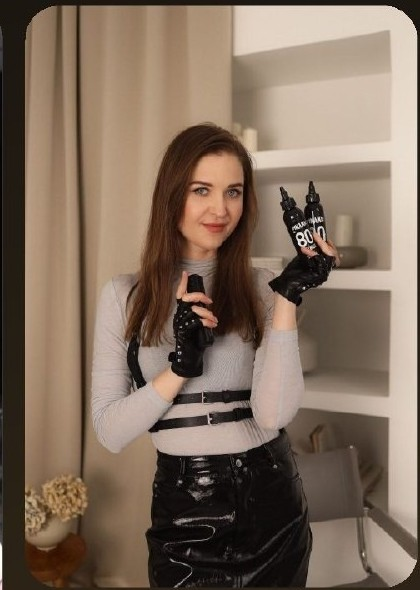
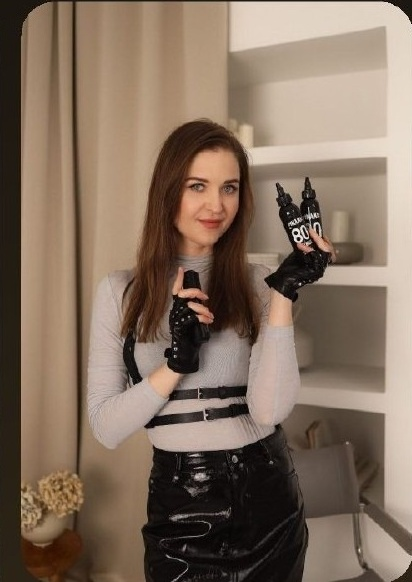
Rework hero photo grid, fix cert animation physics and gradient seams
- Replace hero main photo with higher-res original showing tattoo machine
- Fix hero photo crops (remove added grey bars, restore full-photo aspect ratio)
- Fix object-position on teaching photo to show scene middle, not just top
- Trim dark corners on portrait/teaching photos, add hero divider border
- Rewrite certificate tilt/shatter animation with real spring physics
  (stiffness/damping/mass) and correct ring size, ported from reference bundle
- Fix double-rAF issue causing shatter particles to be invisible
- Remove black border around certificate via tighter image crop
- Fix gradient seam between final slide and CTA buttons (160deg -> 180deg)
- Add tablet-aware responsive breakpoint for touch devices
- Add Meta Pixel, lead-tracking triggers, and discount banner checkout link

Claude-Session: https://claude.ai/code/session_01CnfRud7UFKfhrBcKWTmy69

diff --git a/docs/index.html b/docs/index.html
@@ -158,8 +158,8 @@ src="https://www.facebook.com/tr?id=2292163738269124&ev=PageView&noscript=1"
      mechanism changed, from position:absolute percentages to grid. */
   .s2-wrap{
     background:
-      radial-gradient(circle at 15% 20%, rgba(255,0,3,0.42) 0%, transparent 55%),
-      linear-gradient(105deg,#5c1811 0%,#1a110d 60%);
+      radial-gradient(circle at 15% 20%, rgba(255,0,3,0.4) 0%, rgba(255,0,3,0.24) 22%, rgba(180,60,30,0.12) 42%, rgba(120,50,30,0.05) 60%, transparent 78%),
+      linear-gradient(105deg,#5c1811 0%,#3d1913 30%,#241410 55%,#1a110d 80%,#1a110d 100%);
   }
   /* Title/subtitle rebuilt as real HTML using the exact same font
      treatment as slide 1's hero h1 (Roboto Flex, uppercase, same
@@ -300,7 +300,7 @@ src="https://www.facebook.com/tr?id=2292163738269124&ev=PageView&noscript=1"
   .s23-bg-gradient{
     background:
       radial-gradient(circle at top right, rgba(253,144,77,0.38) 0%, rgba(201,162,74,0.2) 18%, transparent 38%),
-      linear-gradient(160deg, rgba(90,62,38,0.9) 0%, rgba(24,19,16,1) 78%, rgba(24,19,16,1) 100%);
+      linear-gradient(180deg, rgba(90,62,38,0.9) 0%, rgba(24,19,16,1) 60%, rgba(24,19,16,1) 100%);
   }
   .ov-s23-bg-tint{
     position:absolute; inset:0; z-index:0; pointer-events:none;
@@ -360,8 +360,8 @@ src="https://www.facebook.com/tr?id=2292163738269124&ev=PageView&noscript=1"
   }
   .ov-s23-cert-ring{
     position:absolute; left:50%; top:50%; pointer-events:none; border-radius:50%;
-    border:1px solid rgba(230,33,21,0.6); transform:translate(-50%,-50%);
-    width:0; height:0; opacity:1; transition:width 0.5s ease-out,height 0.5s ease-out,opacity 0.5s ease-out;
+    border:2px solid #e62115; box-shadow:0 0 30px #e62115; transform:translate(-50%,-50%);
+    width:0; height:0; opacity:1; transition:width 0.6s ease-out,height 0.6s ease-out,opacity 0.6s ease-out;
   }
 
   .ov-s22-right{ left:51.5%; top:70.4%; height:29.6%; width:44%; color:#cabfae; display:flex; flex-direction:column; justify-content:center; }
@@ -677,6 +677,11 @@ src="https://www.facebook.com/tr?id=2292163738269124&ev=PageView&noscript=1"
       transition:transform 0.8s cubic-bezier(.25,.46,.45,.94), opacity 0.8s cubic-bezier(.25,.46,.45,.94);
       transform:translate(-50%,-50%); opacity:1;
     }
+    .s23-mob-cert-ring{
+      position:absolute; left:50%; top:50%; pointer-events:none; border-radius:50%;
+      border:2px solid #e62115; box-shadow:0 0 8vw #e62115; transform:translate(-50%,-50%);
+      width:0; height:0; opacity:1; transition:width 0.6s ease-out,height 0.6s ease-out,opacity 0.6s ease-out;
+    }
     .s23-mob-cta-h{
       font-family:var(--font-rise); font-weight:700; text-transform:uppercase;
       letter-spacing:-0.045em; font-variation-settings:"wdth" 116,"opsz" 36;
@@ -942,11 +947,11 @@ src="https://www.facebook.com/tr?id=2292163738269124&ev=PageView&noscript=1"
     --font-rise:'Roboto Flex','Arial Narrow',Arial,sans-serif;
     --font-body-2:'Geologica',system-ui,sans-serif;
   }
-  .hero{ position:relative; background:linear-gradient(180deg, #0e0a08 0%, #1c140f 100%); overflow:hidden; }
+  .hero{ position:relative; background:linear-gradient(180deg, #0e0a08 0%, #1c140f 100%); overflow:hidden; border-bottom:3px solid #15110e; }
   .hero-glow{
     position:absolute; left:50%; top:55%; width:1150px; height:1150px;
     transform:translate(-50%,-50%);
-    background:radial-gradient(circle, rgba(255,0,3,0.55) 0%, rgba(255,0,3,0.38) 32%, rgba(201,162,74,0.14) 58%, transparent 75%);
+    background:radial-gradient(circle, rgba(255,0,3,0.5) 0%, rgba(255,0,3,0.4) 22%, rgba(235,80,20,0.28) 40%, rgba(201,162,74,0.16) 58%, rgba(150,100,50,0.07) 74%, transparent 92%);
     filter:blur(10px); pointer-events:none; z-index:0;
   }
   .hero-container{ position:relative; z-index:1; width:min(1180px, 100% - 48px); margin-inline:auto; }
@@ -959,7 +964,7 @@ src="https://www.facebook.com/tr?id=2292163738269124&ev=PageView&noscript=1"
     .hero-logo{ gap:10px; font-size:1.05rem; }
     .hero-logo img{ width:46px; height:46px; }
   }
-  .hero-grid{ display:grid; grid-template-columns:1.15fr 1fr; align-items:center; gap:clamp(2rem, 4vw, 4rem); padding:18px 0 48px; }
+  .hero-grid{ display:grid; grid-template-columns:1.15fr 1fr; align-items:center; gap:clamp(0.5rem, 1.2vw, 1.25rem); padding:18px 0 48px; }
   .hero h1{
     margin:0 0 clamp(1.25rem, 2.5vw, 1.75rem);
     font-family:var(--font-rise); font-size:clamp(3rem, 4.5vw, 4rem);
@@ -981,9 +986,17 @@ src="https://www.facebook.com/tr?id=2292163738269124&ev=PageView&noscript=1"
   .hero-stat span{ font-size:clamp(0.9rem, 1.3vw, 1.15rem); }
   .hero-byline{ display:flex; align-items:center; gap:1rem; font-family:'Playfair Display',serif; font-style:italic; font-weight:400; color:rgba(250,246,239,0.82); font-size:clamp(0.85rem, 1vw, 1rem); }
   .hero-byline .rule{ width:clamp(2rem,3vw,3rem); height:1px; background:#a9803a; flex-shrink:0; }
-  .hero-photos{ position:relative; z-index:1; display:grid; grid-template-columns:1fr 1fr; grid-template-rows:1fr 1fr; gap:clamp(0.6rem, 1.2vw, 1rem); height:clamp(20rem, 34vw, 32rem); overflow:hidden; }
-  .hero-photos img{ width:100%; height:100%; min-height:0; min-width:0; object-fit:cover; border-radius:clamp(16px, 1.2vw, 24px); display:block; box-shadow:0 24px 54px -26px rgba(0,0,0,0.95); }
-  .hero-photos .main{ grid-row:1 / span 2; }
+  /* The main photo is naturally tall/narrow (372:1182) -- rather than
+     cropping it or letterboxing it inside a square-ish grid cell, its
+     own aspect-ratio now sets how much width it takes, and the two
+     smaller photos share whatever width is left. So the full frame
+     shows, at its real proportions, with nothing cut off and no filler
+     bars added. */
+  .hero-photos{ position:relative; z-index:1; display:flex; align-items:stretch; gap:clamp(0.6rem, 1.2vw, 1rem); height:clamp(23rem, 39vw, 37rem); overflow:hidden; }
+  .hero-photos img{ width:100%; height:100%; min-height:0; min-width:0; object-fit:cover; object-position:65% 30%; border-radius:clamp(16px, 1.2vw, 24px); display:block; }
+  .hero-photos .main{ height:100%; width:auto; aspect-ratio:853/1280; flex-shrink:0; object-fit:cover; object-position:center center; }
+  .hero-photos-side{ flex:1 1 auto; min-width:0; display:grid; grid-template-rows:1fr 1fr; gap:clamp(0.6rem, 1.2vw, 1rem); }
+  .hero-photos-side img:last-child{ object-position:50% 50%; }
   @media (max-width:768px), (hover:none) and (pointer:coarse){
     .hero-grid{ grid-template-columns:1fr; }
     .hero-photos{ order:-1; height:clamp(16rem, 62vw, 22rem); }
@@ -1011,8 +1024,10 @@ src="https://www.facebook.com/tr?id=2292163738269124&ev=PageView&noscript=1"
       </div>
       <div class="hero-photos">
         <img class="main" src="assets/hero/photo-tattoo.jpg" alt="Работа мастера над татуировкой">
-        <img src="assets/hero/photo-portrait.jpg" alt="Виктория Поникарова">
-        <img src="assets/hero/photo-teaching.jpg" alt="Виктория Поникарова проводит обучение">
+        <div class="hero-photos-side">
+          <img src="assets/hero/photo-portrait.jpg" alt="Виктория Поникарова">
+          <img src="assets/hero/photo-teaching.jpg" alt="Виктория Поникарова проводит обучение">
+        </div>
       </div>
     </div></div>
     <div class="ov ov-badge on-dark"><span class="num">1</span><span class="den">/23</span></div>
@@ -1741,7 +1756,7 @@ src="https://www.facebook.com/tr?id=2292163738269124&ev=PageView&noscript=1"
     <img class="slide-img" src="assets/module-photos/slide-23-textless-desktop.jpg" alt="Слайд 23 - готов начать путь в тату-индустрии">
     <div class="ov-s23-bg-tint s23-bg-gradient" aria-hidden="true"></div>
     <img class="ov-s23-watermark" src="assets/hero/logo-watermark.png" alt="" aria-hidden="true">
-    <div class="ov ov-s23-cert-wrap" style="left:51.25%;top:12.59%;width:45.42%;height:58.22%;">
+    <div class="ov ov-s23-cert-wrap" style="left:51.583%;top:13.333%;width:44.667%;height:56.741%;">
       <div class="ov-s23-cert-tilt" id="s23CertTilt">
         <img src="assets/module-photos/slide-23-certificate.jpg" alt="Сертификат об окончании курса VIP tattoo school">
         <div class="ov-s23-cert-glare" id="s23CertGlare"></div>
@@ -1803,6 +1818,36 @@ src="https://www.facebook.com/tr?id=2292163738269124&ev=PageView&noscript=1"
 <script>
 (function(){
   var MAX_TILT = 12;
+  // Same spring constants as the landing page's certificate-tilt.js
+  // (framer-motion useSpring({stiffness:200, damping:15, mass:.3})),
+  // reimplemented as a plain rAF physics loop since this deck has no
+  // animation library -- this is what gives the tilt its soft, springy
+  // settle instead of a linear/eased snap.
+  var SPRING = { stiffness: 200, damping: 15, mass: 0.3 };
+
+  function makeSpring(onUpdate){
+    var x = 0, v = 0, target = 0, raf = null, last = null;
+    function step(now){
+      var dt = Math.min((now - last) / 1000, 0.032);
+      last = now;
+      var force = -SPRING.stiffness * (x - target) - SPRING.damping * v;
+      var a = force / SPRING.mass;
+      v += a * dt;
+      x += v * dt;
+      onUpdate(x);
+      if(Math.abs(x - target) > 0.01 || Math.abs(v) > 0.01){
+        raf = requestAnimationFrame(step);
+      } else {
+        x = target; v = 0; onUpdate(x); raf = null;
+      }
+    }
+    return {
+      set: function(t){
+        target = t;
+        if(!raf){ last = performance.now(); raf = requestAnimationFrame(step); }
+      }
+    };
+  }
 
   function initCertTilt(opts){
     var tilt = document.getElementById(opts.tiltId);
@@ -1811,15 +1856,19 @@ src="https://www.facebook.com/tr?id=2292163738269124&ev=PageView&noscript=1"
     var glare = opts.glareId ? document.getElementById(opts.glareId) : null;
     if(!tilt || !badge || !btn) return;
 
-    function setTilt(rx, ry){
+    var rx = 0, ry = 0;
+    function render(){
       tilt.style.transform = 'perspective(1000px) rotateX('+rx+'deg) rotateY('+ry+'deg)';
     }
+    var springX = makeSpring(function(v){ rx = v; render(); });
+    var springY = makeSpring(function(v){ ry = v; render(); });
 
     function tiltFromPoint(clientX, clientY, strength){
       var r = tilt.getBoundingClientRect();
       var px = (clientX - r.left) / r.width;
       var py = (clientY - r.top) / r.height;
-      setTilt((0.5 - py) * MAX_TILT * strength, (px - 0.5) * MAX_TILT * strength);
+      springY.set((px - 0.5) * MAX_TILT * strength);
+      springX.set((0.5 - py) * MAX_TILT * strength);
       if(glare) glare.style.background = 'radial-gradient(circle at '+(px*100)+'% '+(py*100)+'%, rgba(255,255,255,0.9), transparent 50%)';
     }
 
@@ -1832,15 +1881,17 @@ src="https://www.facebook.com/tr?id=2292163738269124&ev=PageView&noscript=1"
         var t = e.touches[0];
         if(t) tiltFromPoint(t.clientX, t.clientY, 2.2);
       }, {passive:true});
-      tilt.addEventListener('touchend', function(){ setTilt(0,0); });
+      tilt.addEventListener('touchend', function(){ springX.set(0); springY.set(0); });
     } else {
       tilt.addEventListener('mousemove', function(e){ tiltFromPoint(e.clientX, e.clientY, 1); });
-      tilt.addEventListener('mouseleave', function(){ setTilt(0,0); });
+      tilt.addEventListener('mouseleave', function(){ springX.set(0); springY.set(0); });
     }
 
     function demoWobble(){
       var steps = [[MAX_TILT*0.7,-MAX_TILT*0.7],[-MAX_TILT*0.7,MAX_TILT*0.7],[MAX_TILT*0.5,MAX_TILT*0.5],[0,0]];
-      steps.forEach(function(s, i){ setTimeout(function(){ setTilt(s[0], s[1]); }, 220*(i+1)); });
+      steps.forEach(function(s, i){
+        setTimeout(function(){ springX.set(s[0]); springY.set(s[1]); }, 220*(i+1));
+      });
     }
 
     function shatter(){
@@ -1855,14 +1906,33 @@ src="https://www.facebook.com/tr?id=2292163738269124&ev=PageView&noscript=1"
         shard.style.height = size+'px';
         shard.style.clipPath = 'polygon('+(Math.random()*50)+'% 0%, 100% '+(Math.random()*50)+'%, '+(50+Math.random()*50)+'% 100%, 0% '+(50+Math.random()*50)+'%)';
         badge.appendChild(shard);
+        // Double rAF: without it the browser can commit the shard's
+        // starting transform/opacity and its target values in the same
+        // paint, so the transition never gets a starting frame to
+        // interpolate from and the shard just appears already invisible.
         requestAnimationFrame(function(sh, dx, dy, rot){
           return function(){
-            sh.style.transform = 'translate(-50%,-50%) translate('+dx+'px,'+dy+'px) rotate('+rot+'deg)';
-            sh.style.opacity = '0';
+            requestAnimationFrame(function(){
+              sh.style.transform = 'translate(-50%,-50%) translate('+dx+'px,'+dy+'px) rotate('+rot+'deg)';
+              sh.style.opacity = '0';
+            });
           };
         }(shard, Math.cos(angle)*dist, Math.sin(angle)*dist, Math.random()*720-360));
         setTimeout(function(sh){ return function(){ sh.remove(); }; }(shard), 900);
       }
+      // Expanding glow ring, matching the landing page's $S shatter-button
+      // ring exactly: 0 -> 300x300px, opacity 1 -> 0, 0.6s ease-out.
+      var ring = document.createElement('div');
+      ring.className = opts.ringClass;
+      badge.appendChild(ring);
+      requestAnimationFrame(function(){
+        requestAnimationFrame(function(){
+          ring.style.width = '300px';
+          ring.style.height = '300px';
+          ring.style.opacity = '0';
+        });
+      });
+      setTimeout(function(){ ring.remove(); }, 650);
     }
 
     btn.addEventListener('click', function(){
@@ -1875,8 +1945,8 @@ src="https://www.facebook.com/tr?id=2292163738269124&ev=PageView&noscript=1"
     });
   }
 
-  initCertTilt({ tiltId:'s23CertTilt', badgeId:'s23CertBadge', btnId:'s23CertBtn', glareId:'s23CertGlare', shardClass:'ov-s23-cert-shard', touch:false });
-  initCertTilt({ tiltId:'s23MobCertTilt', badgeId:'s23MobCertBadge', btnId:'s23MobCertBtn', shardClass:'s23-mob-cert-shard', touch:true });
+  initCertTilt({ tiltId:'s23CertTilt', badgeId:'s23CertBadge', btnId:'s23CertBtn', glareId:'s23CertGlare', shardClass:'ov-s23-cert-shard', ringClass:'ov-s23-cert-ring', touch:false });
+  initCertTilt({ tiltId:'s23MobCertTilt', badgeId:'s23MobCertBadge', btnId:'s23MobCertBtn', shardClass:'s23-mob-cert-shard', ringClass:'s23-mob-cert-ring', touch:true });
 
   // Fire a Meta Pixel "Lead" event whenever a visitor interacts with any of
   // the 3 checkout-intent buttons: the discount banner and "Открыть доступ"
